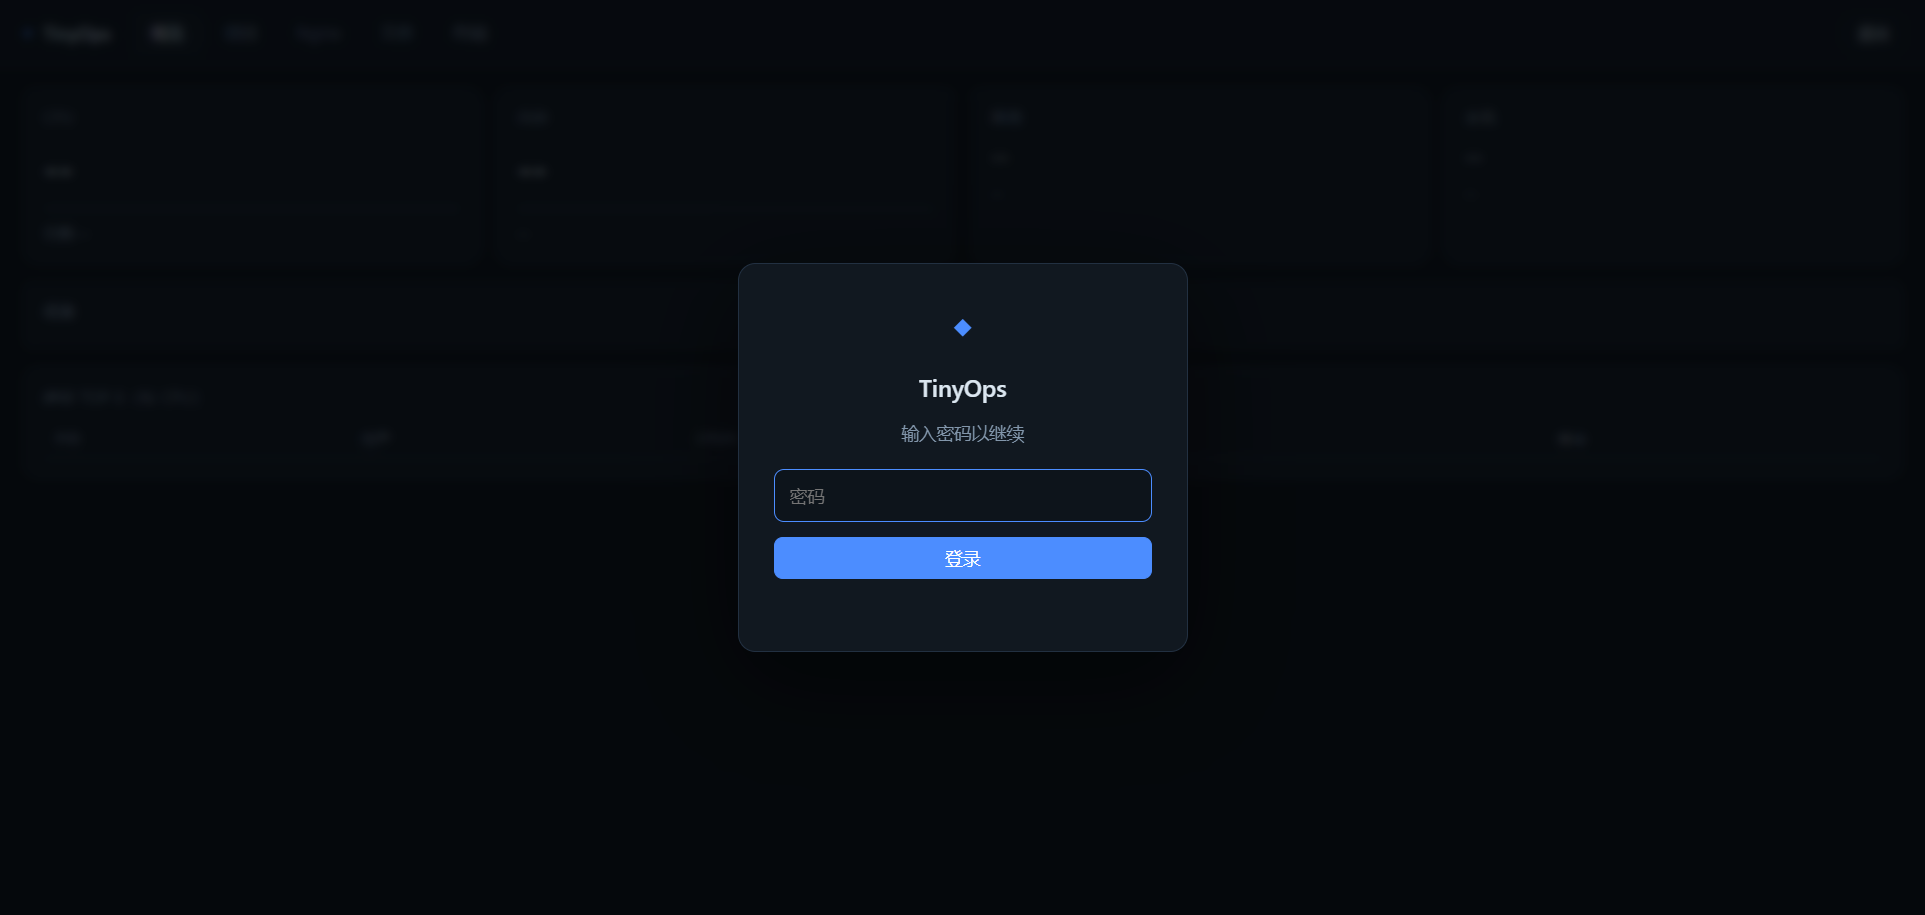
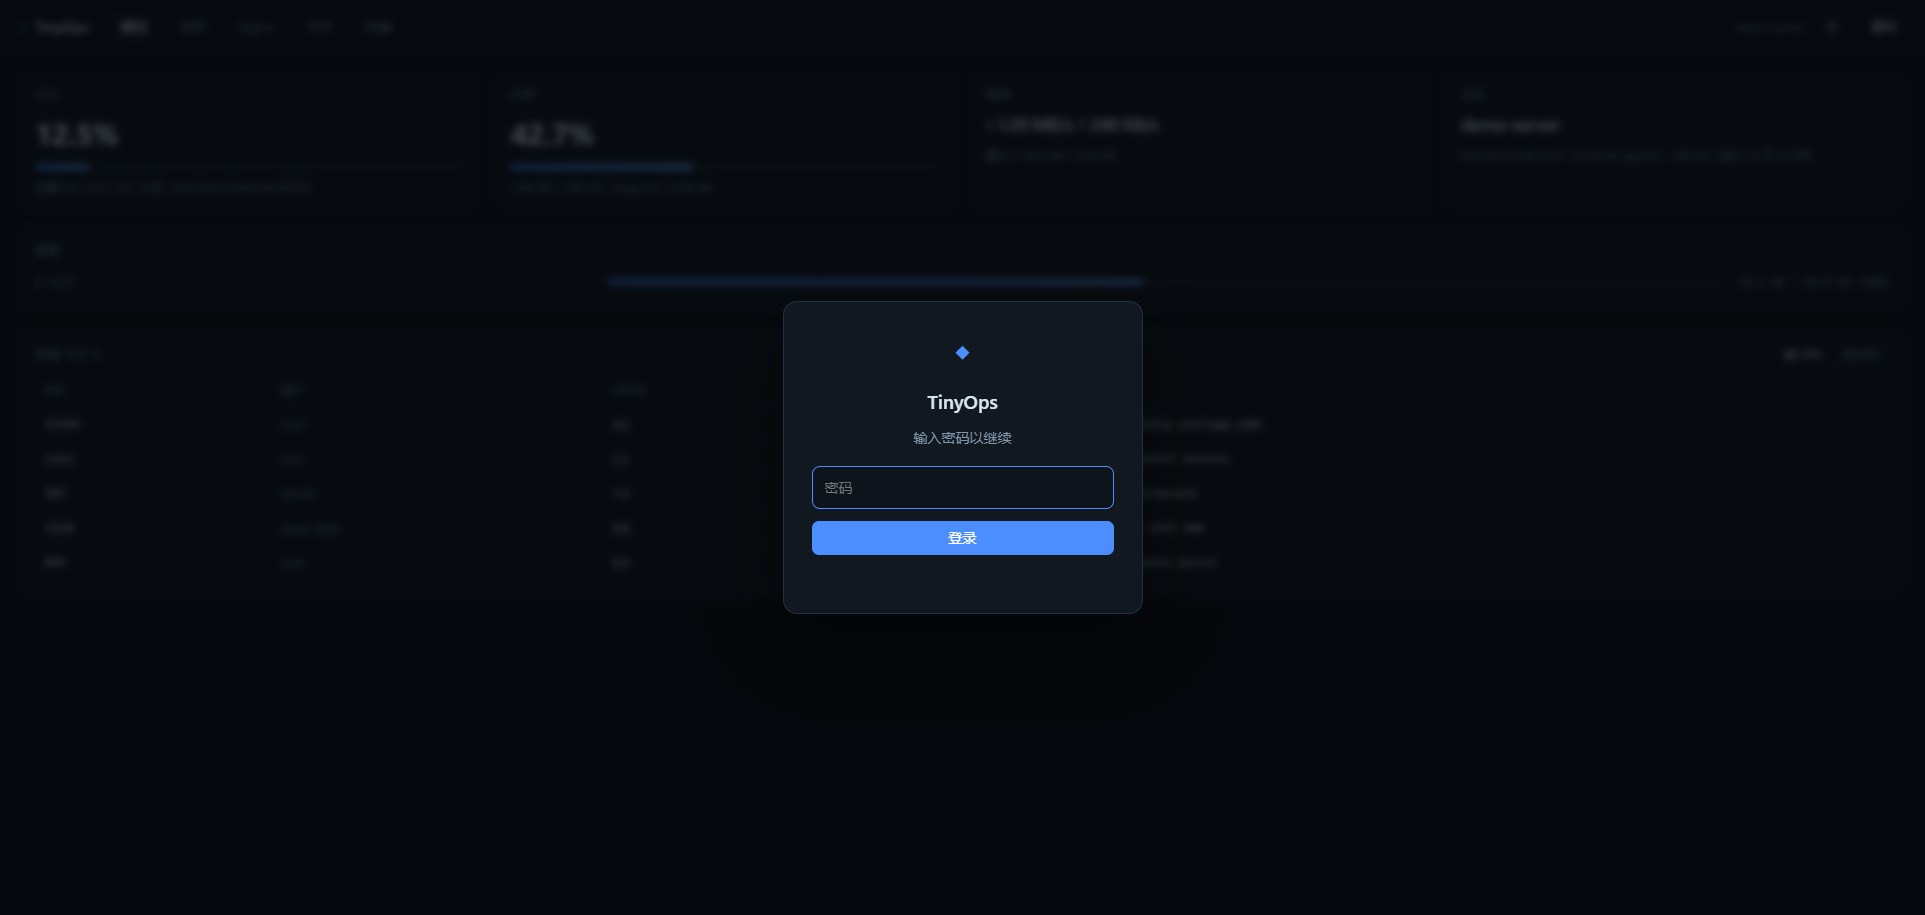
docs:更新README文档

diff --git a/README.md b/README.md
@@ -13,6 +13,7 @@
 - Nginx：按分组浏览 `conf.d` / `sites-enabled` / `sites-available`，在线编辑、备份、`nginx -t`、重载、站点启停
 - 文件：浏览项目目录或任意绝对路径，拖拽上传/覆盖、删除（密码确认），自动 `.bak` 备份并保留权限
 - 终端：PTY 终端，vim、htop 这类交互程序可以用
+- 主题：深浅色一键切换，默认跟随系统偏好
 - 登录：密码 + 会话 Cookie
 
 ## 截图
@@ -48,6 +49,14 @@ Nginx 配置
 实时日志
 
 ![实时日志](docs/screenshots/08-logs.png)
+
+Unit 文件
+
+![Unit 文件](docs/screenshots/09-unit.png)
+
+浅色主题
+
+![浅色主题](docs/screenshots/10-light.png)
 
 ## 连接
 
